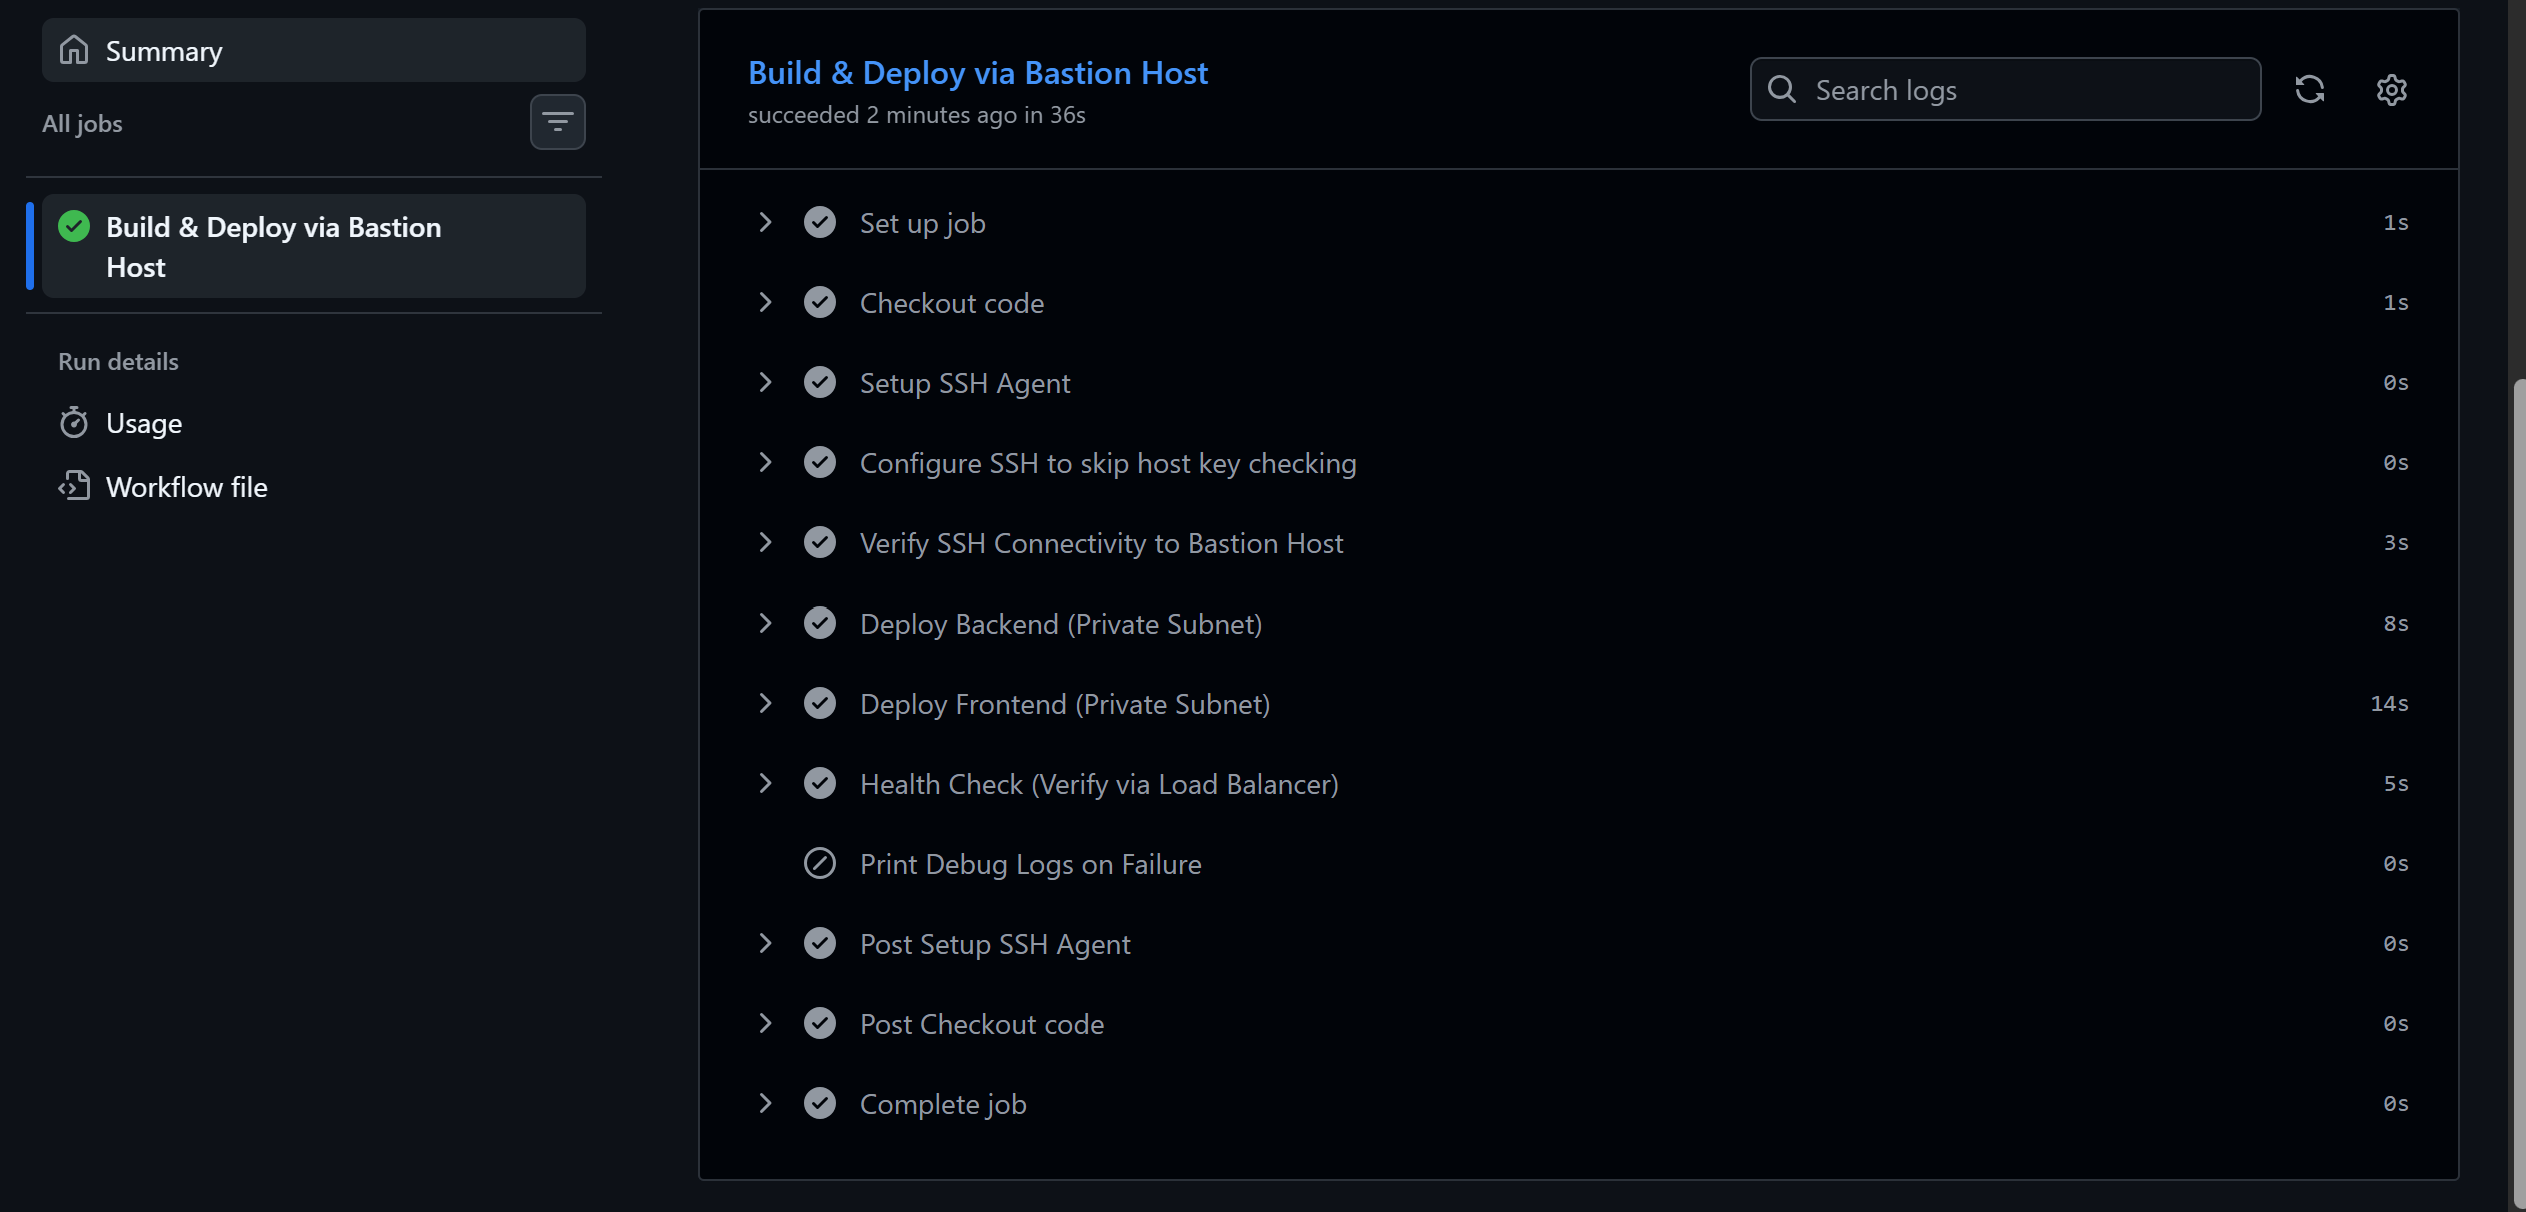
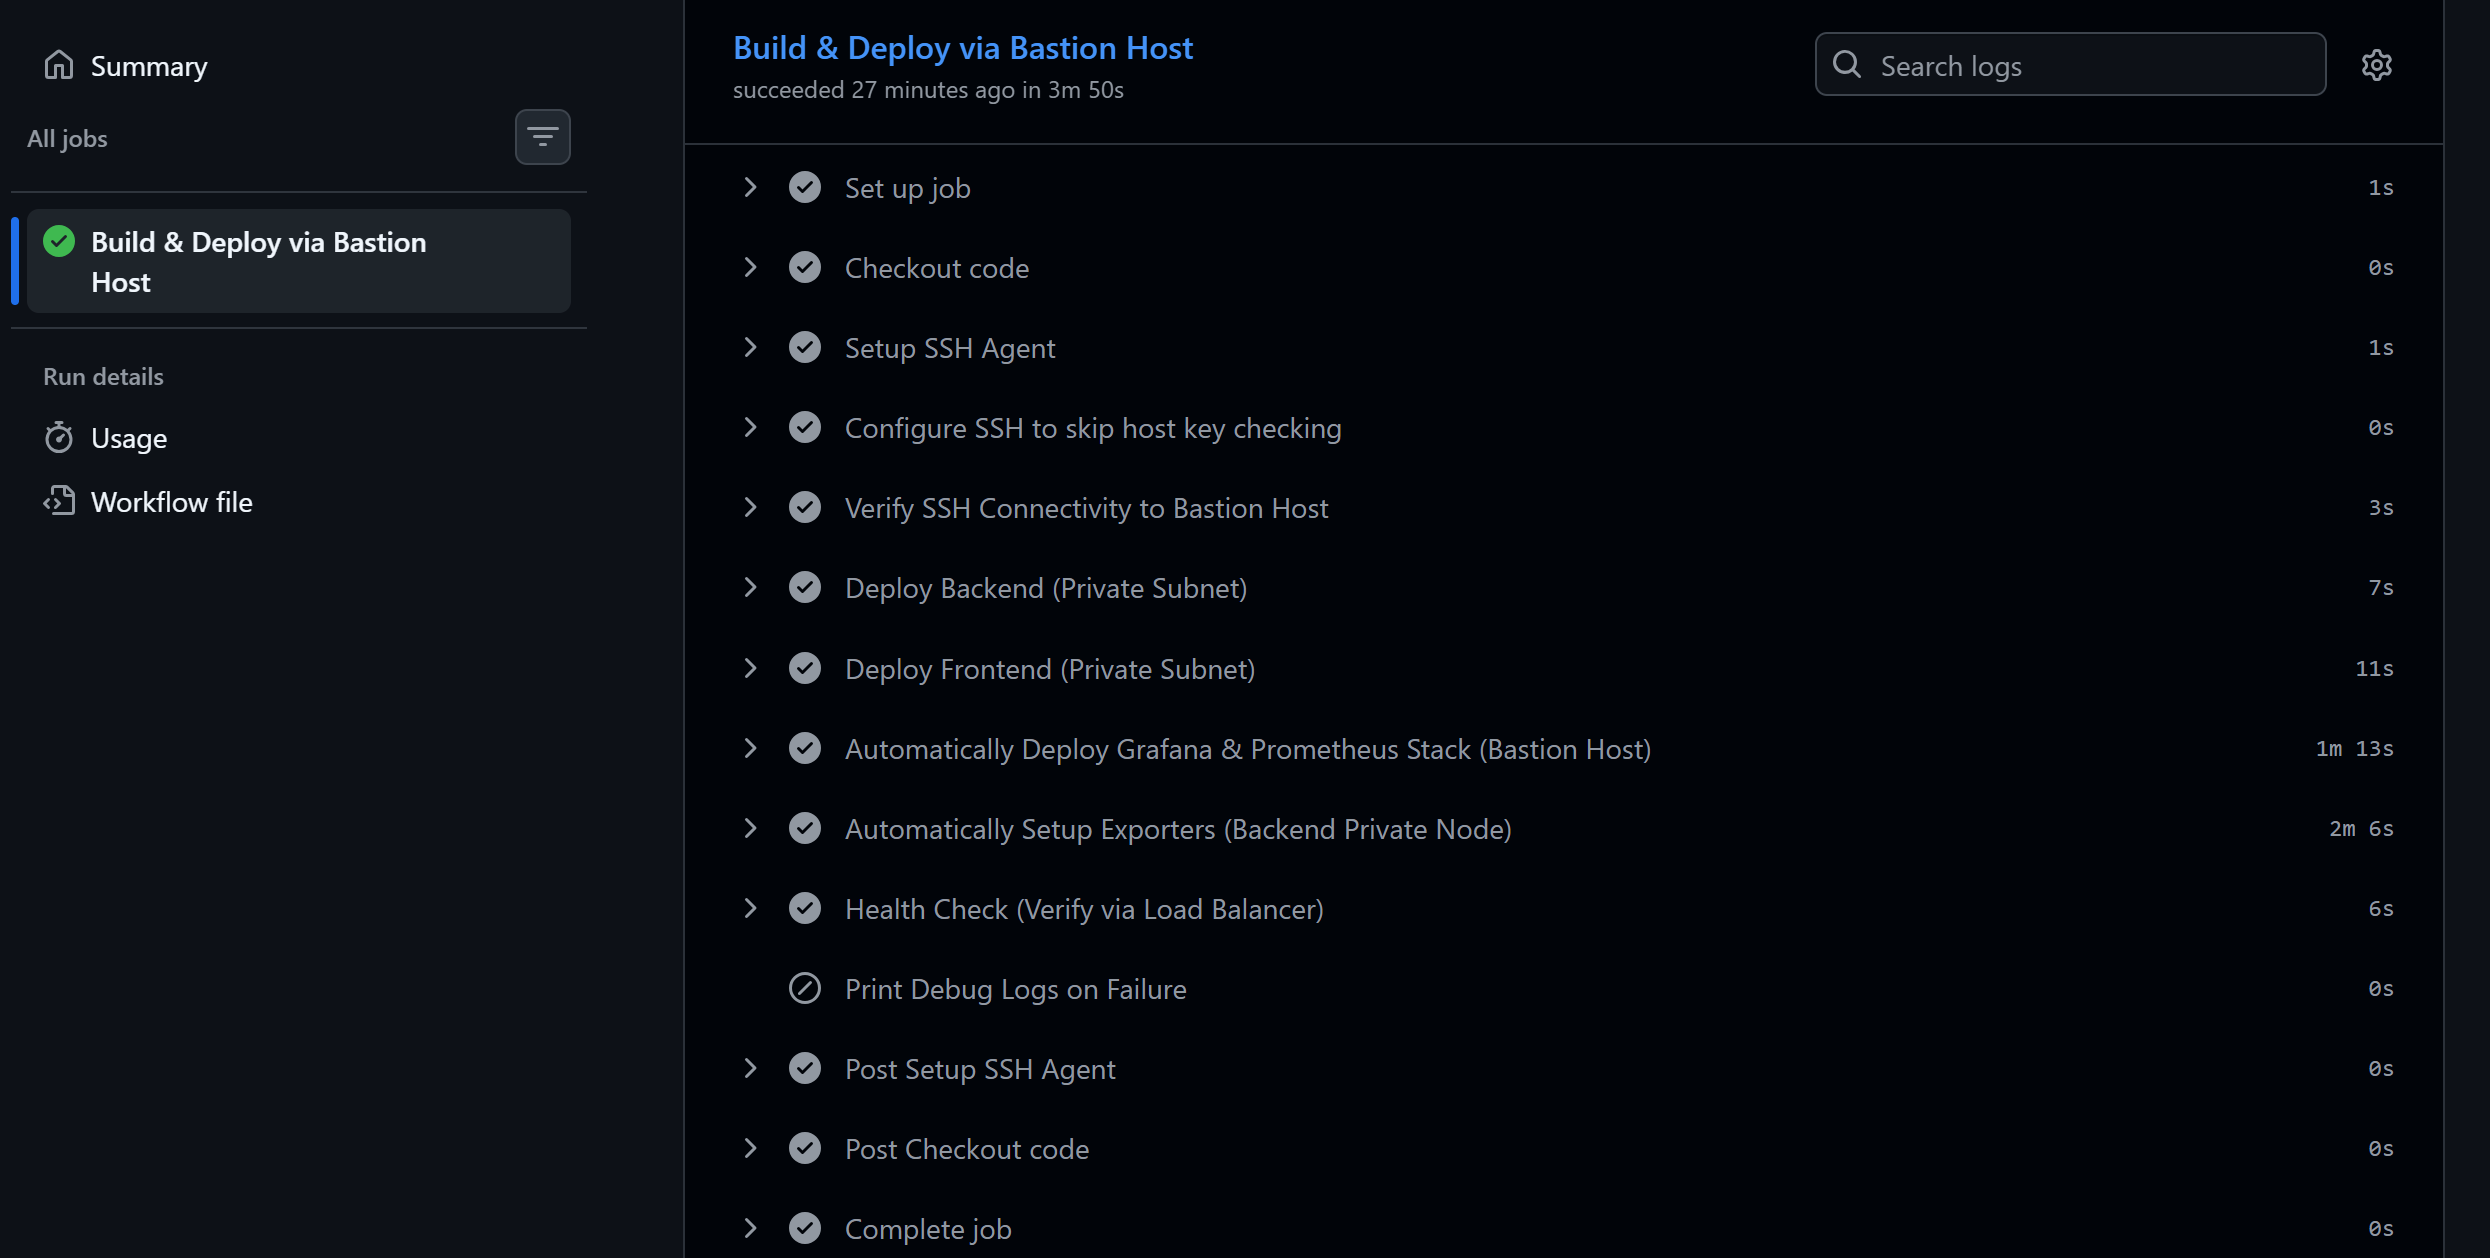
updated readme file

diff --git a/README.md b/README.md
@@ -1,10 +1,14 @@
-# Premium 3-Tier AWS Architecture — IaC, CI/CD, and Full-Stack Telemetry
-
-This repository contains the complete modular implementation for the **DevOps Module 6 Assignment**. The project automates the creation of a highly secure, high-availability, 3-tier AWS cloud infrastructure using **Terraform (IaC)**, sets up a secure pipeline using **GitHub Actions (CI/CD)** with SSH ProxyJump, and deploys a comprehensive **Telemetry & Monitoring Stack (Prometheus, Grafana, Loki)**.
+# Ostad DevOps Batch 11 — Assignment Module 6
+### Project Title: Modular 3-Tier AWS Architecture (IaC, CI/CD, and Full-Stack Telemetry)
+**Engineer**: Mahmudur Rahman  
+**Assignment Reference**: `ostad_batch_11_mahmud` (Key Pair: `ostad_batch_11_mahmud`)
 
 ---
 
-## 📐 Enterprise Architecture Diagram
+## 📐 1. System Architecture Diagrams
+
+### A. Modular 3-Tier Infrastructure Flowchart
+The following diagram illustrates the physical topology of the AWS VPC, indicating the boundary isolation of public and private subnets, security group boundaries, load-balancer routing, and telemetric scraping loops:
 
 ```mermaid
 graph TD
@@ -68,89 +72,69 @@ graph TD
     Grafana -->|Query Logs| Loki
 ```
 
----
+### B. Component Connectivity & Control Flow Sequence
+The sequence diagram below displays the lifecycle of an user request (routing statically and dynamically) and the remote DevOps management control path:
 
-## 🗃️ Component Catalogue & Architectural Roles
+```mermaid
+sequenceDiagram
+    autonumber
+    actor Client as 🌐 End User
+    actor Engineer as 💻 DevOps Engineer
+    participant ALB as ⚖️ Application Load Balancer
+    participant Bastion as 🛡️ Bastion Host
+    participant FE as 🖥️ Frontend EC2 (Nginx)
+    participant BE as ⚙️ Backend EC2 (PM2 Node)
+    participant DB as 🗄️ Database EC2 (PostgreSQL)
 
-Our premium 3-tier architecture isolates each layer into its own secure networking domain, utilizing the following core components:
-
-### 1. Networking & Perimeter
-* **AWS Custom VPC (`10.0.0.0/16`)**: The primary boundary isolating all resources. It isolates public assets (ALB, Bastion) from private resources (Frontend, Backend, Database).
-* **Internet Gateway (IGW)**: Connects the VPC to the public internet, enabling ingress to the ALB and Bastion, and egress for public subnets.
-* **NAT Gateway**: Resides in the public subnet, allowing private EC2 instances (Frontend and Backend) to securely reach the internet to fetch npm modules and packages on boot, while completely preventing the public internet from initiating connection directly to them.
-
-### 2. Compute Tier (Private & Secure)
-* **Frontend Instance (Vite + React + Nginx)**:
-  * **Role**: Serves the user interface static bundles.
-  * **Role in Security**: Resides in the private app subnet. Ingress is strictly locked down via Security Groups to accept HTTP traffic **only** from the Application Load Balancer. Direct access from the internet is impossible.
-* **Backend Instance (Node.js Express + PM2)**:
-  * **Role**: Runs the API service.
-  * **Role in Security**: Resides in the private app subnet. Ingress is restricted via Security Groups to accept port `3000` traffic **only** from the Application Load Balancer. It manages DB queries and exposes business telemetry endpoints.
-* **Database Instance (EC2 Private PostgreSQL)**:
-  * **Role**: Private stateful repository holding application schemas and user records.
-  * **Role in Security**: Deployed in a private subnet, bypassing managed AWS RDS subnet constraints. Security groups permit inbound port `5432` traffic **only** from the Backend instance. It has no route to the internet, keeping user data safe.
-
-### 3. Traffic Management
-* **Application Load Balancer (ALB)**:
-  * **Role**: Public-facing entry point. Evaluates incoming request paths on port 80:
-    * `/api/*` and `/health` are routed directly to the Backend EC2 Target Group on Port `3000`.
-    * All other requests (e.g. `/`) default to the Frontend EC2 Target Group on Port `80`.
-* **Bastion Host (Public SSH Gateway)**:
-  * **Role**: The single secure bridge to manage the private resources. SSH access to Frontend, Backend, and DB nodes requires hopping through the Bastion host via **SSH ProxyJump (`-J`)**.
-
-### 4. Telemetry & Monitoring Suite (Co-located on Bastion)
-* **Prometheus (`:9090`)**: Scraping daemon that pulls telemetry data from all exporters on a 15-second loop.
-* **Grafana (`:3001`)**: Premium visualization tool loaded with customized dashboards, querying metrics from Prometheus and logs from Loki.
-* **Grafana Loki (`:3100`)**: High-performance log aggregation engine.
-* **Telemetry Exporters**:
-  * **Node Exporter (`:9100`)**: Measures system stats (CPU, memory, disk, network) of the EC2 hosts.
-  * **Nginx Exporter (`:9113`)**: Monitors active Nginx connections, requests/second, and server performance.
-  * **PostgreSQL Exporter (`:9187`)**: Connects remotely to the DB instance from the Backend host to gather active connections, transaction volumes, and query statistics.
-  * **BMI App Exporter (`:9091`)**: Scraping agent that monitors active backend sessions and application business metrics.
-  * **Promtail (`:9080`)**: Resides on app nodes to capture Nginx, PM2, and system syslog outputs and stream them continuously to Loki.
-
----
-
-## 📂 Repository Layout
-
-```
-mahmud_assignment_6/
-├── .github/
-│   └── workflows/
-│       └── deploy.yml              # CI/CD pipeline using SSH ProxyJump (-J) and remote origin fixes
-├── src/
-│   ├── frontend/                   # React Vite application
-│   ├── backend/                    # Express Node.js application
-│   └── database/                   # PostgreSQL schema and SQL migrations
-├── terraform/
-│   ├── modules/
-│   │   ├── vpc/                    # Modular network stack (Subnets, NAT GW, IGW)
-│   │   ├── security-group/         # Security groups for Bastion, ALB, Frontend, Backend, RDS
-│   │   ├── alb/                    # Public ALB (HTTP port 80, path-based routing rules)
-│   │   └── ec2/                    # EC2 instances with user_data bootstrapper
-│   └── environments/
-│       └── prod/
-│           ├── main.tf             # Composition orchestrator
-│           ├── variables.tf        # Input variable definitions
-│           ├── outputs.tf          # Output IP/DNS addresses
-│           └── terraform.tfvars    # Environment configurations (Default ap-south-1)
-├── monitoring/
-│   ├── exporters/                  # Exporter configurations
-│   ├── 3-tier-app/
-│   │   ├── config/                 # Prometheus config, Loki config, and Alert rules
-│   │   ├── dashboards/             # Preloaded telemetry dashboards
-│   │   └── scripts/
-│   │       ├── setup-monitoring-server.sh # Automation setup script for Monitoring server
-│   │       └── setup-application-server.sh  # Automation setup script for Exporters
-│   └── README.md                   # Telemetry guides
-└── README.md                       # Comprehensive system architecture & description
+    %% Admin & deployment flow
+    Engineer->>Bastion: SSH Connection (Port 22)
+    Engineer->>Bastion: ProxyJump SSH to FE & BE (Port 22)
+    
+    %% Ingress and Data Flow
+    Client->>ALB: HTTP Request (Port 80)
+    alt Default Routing /*
+        ALB->>FE: Forward Traffic (Port 80)
+        Note over FE: Serves React Static Bundle
+        FE-->>Client: Returns HTML/JS/CSS (via ALB)
+    else API Routing /api/* or /health
+        ALB->>BE: Forward Traffic (Port 3000)
+        BE->>DB: PostgreSQL Query (Port 5432)
+        DB-->>BE: Query Result (Port 5432)
+        BE-->>Client: Returns JSON Data (via ALB)
+    end
 ```
 
 ---
 
-## 📝 Subnet Allocation & Networking Details
+## 🗃️ 2. Core Components & Security Catalog
 
-Our VPC segregates public and private traffic cleanly across multiple Availability Zones:
+Our architecture splits system duties across three secure layers with strict ingress controls:
+
+### 1. Networking Infrastructure
+* **AWS Custom VPC (`10.0.0.0/16`)**: Segregates public ingress nodes from private execution tiers.
+* **Internet Gateway (IGW)**: Direct boundary adapter bridging our VPC to the public Internet.
+* **NAT Gateway**: Resides inside the public subnet, allowing backend and frontend servers in private subnets to pull npm modules and libraries outbound while blocking incoming public requests.
+
+### 2. Physical Nodes (Compute Tier)
+* **Frontend Node (Nginx, Port 80)**: Serves static Vite React packages. Security groups accept port 80 traffic **only** from the ALB security group.
+* **Backend Node (Node.js Express + PM2, Port 3000)**: Coordinates business rules. Security groups accept port 3000 traffic **only** from the ALB.
+* **Database Node (EC2 PostgreSQL 14, Port 5432)**: Dedicated private instance. Inbound traffic is accepted on port 5432 **only** from the Backend security group. All outbound routes are locked down.
+
+### 3. Load Balancing & Perimeter Security
+* **Application Load Balancer (ALB)**: The sole public gateway for the app. Handles ingress traffic on port 80 and splits it cleanly:
+  * `/api/*` & `/health` route to the Backend target group.
+  * All other requests (e.g. `/`) fallback to the Frontend target group.
+* **Bastion Host (Public Gateway)**: Acts as an isolated SSH entry point. SSH traffic to Backend, Frontend, and DB servers is configured to ProxyJump through the Bastion host.
+
+### 4. Full Telemetry & Logging Suite
+* **Prometheus (`:9090`)**: Telemetry server that pulls data from exporters on a 15-second loop.
+* **Grafana (`:3001`)**: Premium visualization suite showing system stats and logs.
+* **Grafana Loki (`:3100`) & Promtail (`:9080`)**: Continuous log shippers aggregating Nginx, PM2, and system messages into Loki.
+* **Exporters**: Node Exporter (`:9100`), Nginx Exporter (`:9113`), PostgreSQL Exporter (`:9187`, connecting remotely using the backend's database URL), and Custom BMI App Exporter (`:9091`).
+
+---
+
+## 📝 3. VPC Subnet Allocation
 
 | Subnet Name | CIDR Block | Route Table | Availability Zone | Primary Resources |
 | :--- | :--- | :--- | :--- | :--- |
@@ -163,8 +147,76 @@ Our VPC segregates public and private traffic cleanly across multiple Availabili
 
 ---
 
-## 🧑💻 Author
-**Mahmudur Rahman**  
-*DevOps Engineer Trainee*  
-Ostad Batch 11  
-Key Pair Reference: `ostad_batch_11_mahmud`
+## 🛠️ 4. Setup & Deployment Guide
+
+Follow these steps to deploy, configure, and initialize the modular infrastructure:
+
+### Phase 1: Local Infrastructure Provisioning (Terraform)
+1. Open your terminal and navigate to:
+   ```bash
+   cd terraform/environments/prod
+   ```
+2. Initialize and apply the modular configuration:
+   ```bash
+   terraform init
+   ```
+   ```bash
+   terraform apply -auto-approve
+   ```
+3. Copy the output IP addresses and ALB DNS endpoint.
+
+### Phase 2: GitHub Secrets Configuration
+Configure **5 Actions Repository Secrets** under **Settings > Secrets and Variables > Actions > Secrets** using your Terraform outputs:
+* `EC2_BASTION_HOST`: The public IP of the Bastion host (`13.235.103.126`).
+* `EC2_BACKEND_HOST`: The private IP of the Backend node (`10.0.3.72`).
+* `EC2_FRONTEND_HOST`: The private IP of the Frontend node (`10.0.4.242`).
+* `DB_PRIVATE_IP`: The private IP of the Database node (`10.0.3.180`).
+* `ALB_DNS_NAME`: The ALB DNS name (`mahmud-health-prod-alb-1003916145.ap-south-1.elb.amazonaws.com`).
+* `EC2_SSH_KEY`: The raw content of your `ostad_batch_11_mahmud.pem` private key.
+* `DB_PASSWORD`: The database password.
+
+### Phase 3: Triggering CI/CD Pipeline
+Push the codebase to GitHub to trigger automated deployment:
+```bash
+git add .
+git commit -m "feat: complete modular architecture, deploy workflows and telemetry exporters"
+git push origin main
+```
+The workflow will dynamically:
+1. Update the Git remote origins of the target hosts to point to your repository.
+2. Build Vite React packages and deploy to the Frontend web server.
+3. Start Backend Express endpoints under PM2 and execute database migrations.
+4. Set up Prometheus, Grafana, Loki on the Bastion Host.
+5. Deploy and start Node, Nginx, PostgreSQL Exporter and Promtail log shippers.
+6. Verify and output target statuses.
+
+---
+
+## 🌐 5. Verified Active URLs
+
+* **Application Website**: [http://mahmud-health-prod-alb-1003916145.ap-south-1.elb.amazonaws.com](http://mahmud-health-prod-alb-1003916145.ap-south-1.elb.amazonaws.com)
+* **Application Health Endpoint**: [http://mahmud-health-prod-alb-1003916145.ap-south-1.elb.amazonaws.com/health](http://mahmud-health-prod-alb-1003916145.ap-south-1.elb.amazonaws.com/health)
+* **Grafana Telemetry Dashboard**: [http://13.235.103.126:3001](http://13.235.103.126:3001) *(Login: `admin` / `admin`)*
+* **Prometheus Targets Console**: [http://13.235.103.126:9090](http://13.235.103.126:9090)
+
+---
+
+## 📸 6. Evidence of Successful Deployment
+
+Below are the screenshot proofs confirming the fully functional modular deployment, successful GitHub Actions pipeline, active Prometheus scrapers, and operational Grafana dashboards:
+
+### A. Successful GitHub Actions Pipeline Run
+Confirming compilation, delivery, and verification completed without a single error:
+![GitHub Actions Run](Screenshot/Successfull_Github_Action_Run.png)
+
+### B. Functional Web Application
+The deployed 3-tier BMI Health Tracker running dynamically via the AWS Ingress Load Balancer:
+![Web Application](Screenshot/Working_Web_Project.png)
+
+### C. Active Prometheus Targets Scraper
+All 9 targets (Node Exporter, Nginx, Database, custom app) reported as **UP** on port `9090`:
+![Prometheus Targets](Screenshot/Working_Prometheus.png)
+
+### D. Loaded Grafana Dashboard
+Visualizing infrastructure CPU, network bandwidth, memory, active Nginx requests, and database transactions on port `3001`:
+![Grafana Dashboard](Screenshot/Working_Grafana.png)